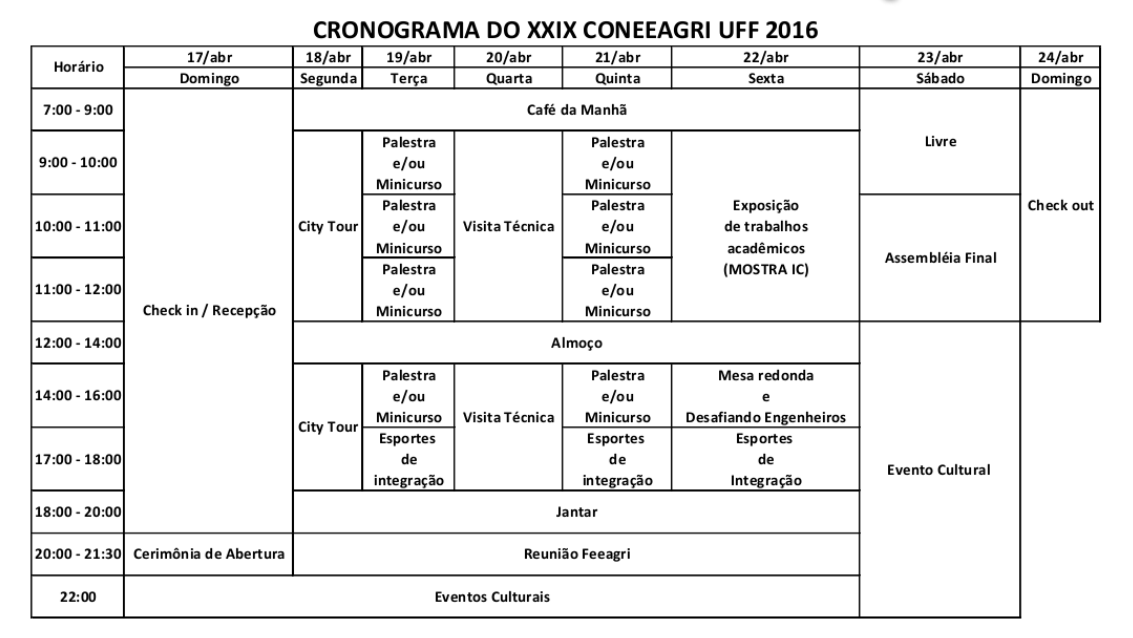
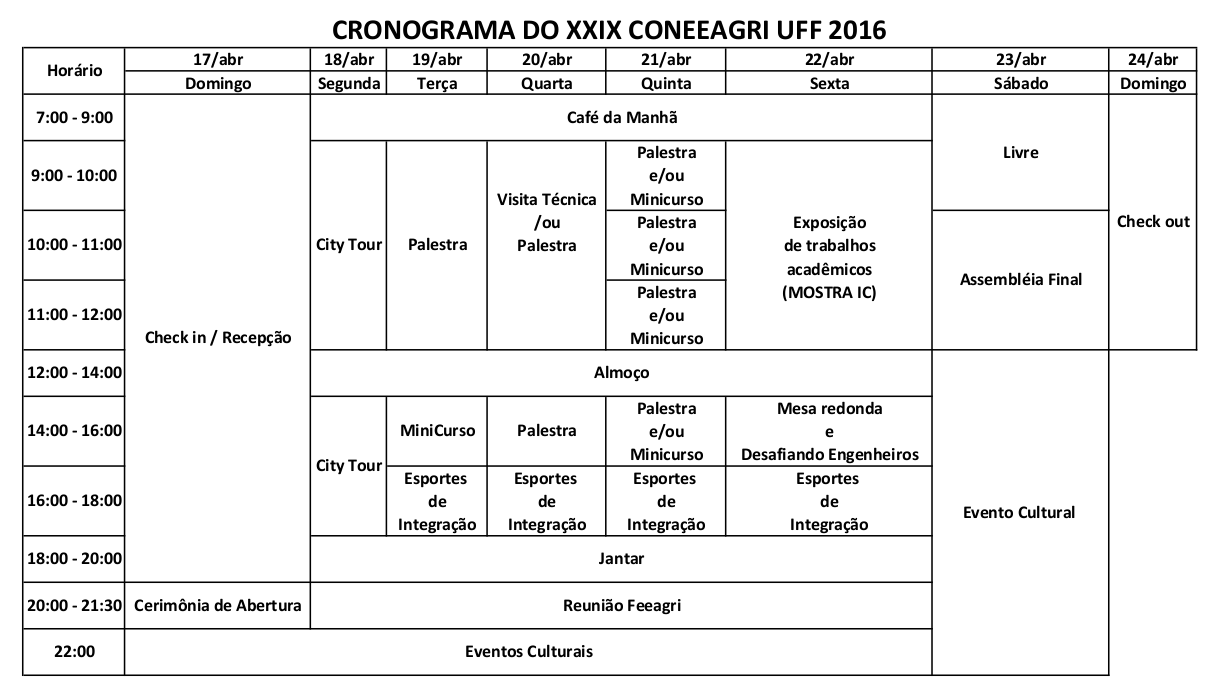
Corrigindo minicursos e Alterando cronograma

Changed region(s): [[0.0, 0.0298, 0.9885, 0.9828], [0.8032, 0.2085, 0.865, 0.2382]]

diff --git a/app/assets/javascripts/components/eventos_academicos/eventos_academicos.jsx b/app/assets/javascripts/components/eventos_academicos/eventos_academicos.jsx
@@ -189,9 +189,14 @@ var EventosAcademicos = React.createClass({
           <h5 className='event-title'>Minicurso</h5>
           <ul>
             <li>
-              <h6>Modelagem Fuzzi em Biossitema Animal</h6>
+              <h6>Minicurso 4 - Modelagem Fuzzi em Biossitema Animal</h6>
               <div>Horário: 10:00 - 12:00</div>
               <span>(Eng. Guilherme Tavares – USP)</span>
+            </li>
+            <li>
+              <h6>Minicurso 5 - Currículo como Ferramenta de Desenvolvimento  Pessoal e Competitividade no Mercado</h6>
+              <div>Horário: 9:00 - 12:00</div>
+              <span>( Prof. Marcos Teixeira –UFF)</span>
             </li>
           </ul>
         </div>
